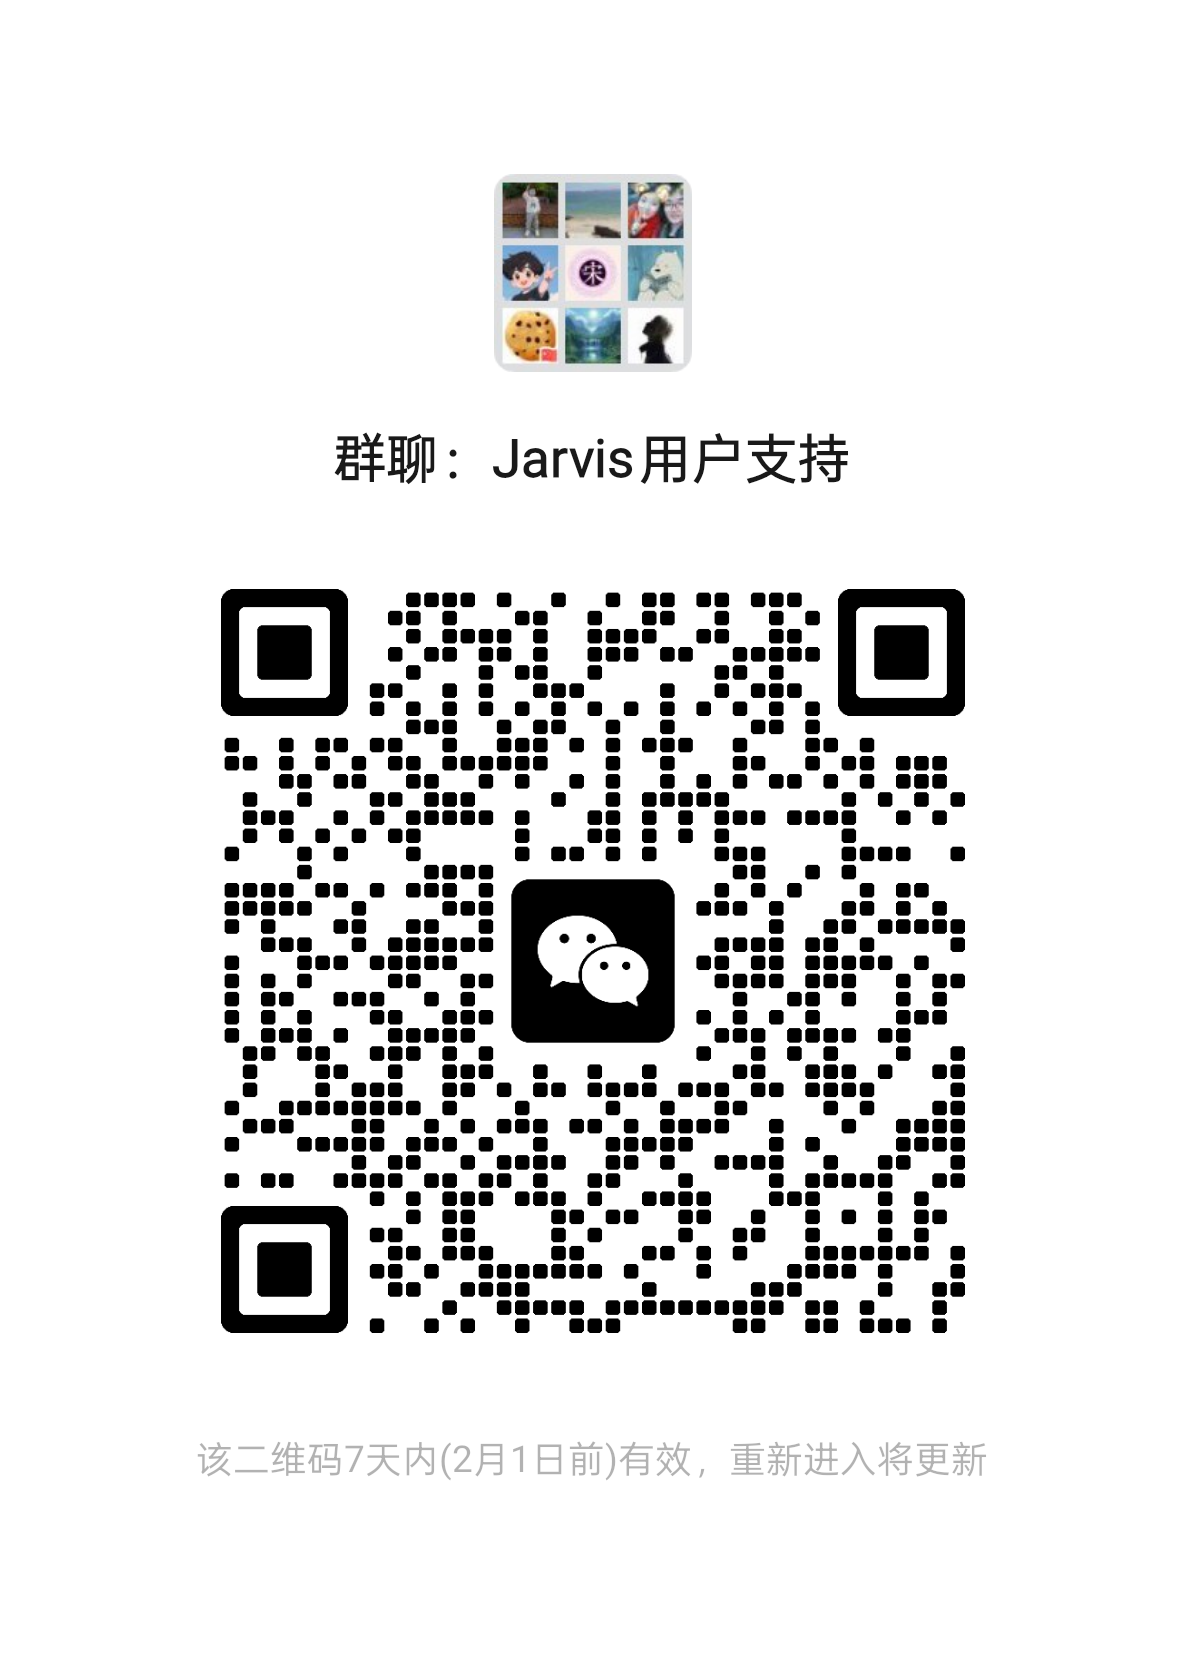
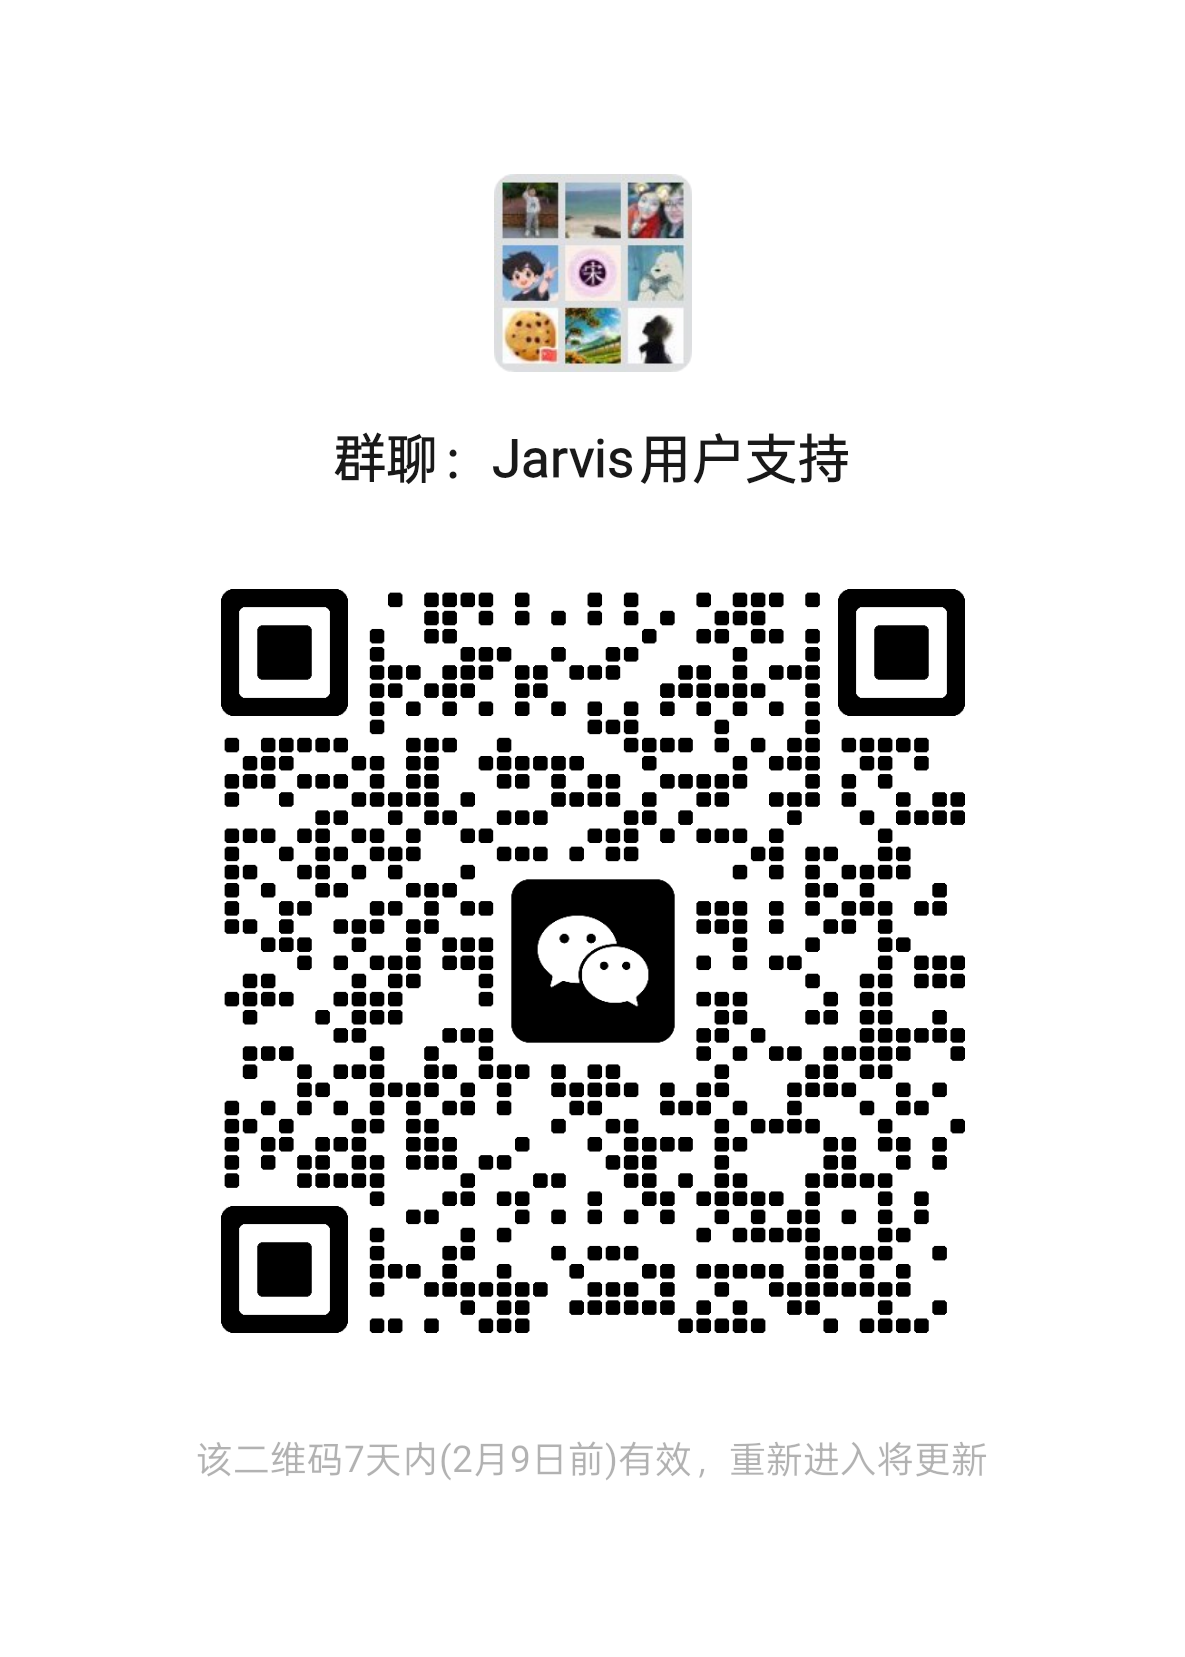
refactor(release): 更新发布说明并清理废弃模块
详细描述变更内容和原因

本次更新是一次代码清理与架构优化版本，主要变更包括：
1. 重构TaskAnalyzer从事件驱动改为直接函数调用模式，简化代码结构
2. 移除15个废弃的智能增强功能模块，总计删除约23,495行代码
3. 清理相关测试文件和配置，优化项目结构
4. 更新进化路线规划，从数字孪生智能转向架构自主优化
5. 新增详细的代码Agent系统设计文档
6. 更新安装脚本和文档内容
7. 移除stats模块的残留代码和废弃函数

Changed region(s): [[0.1873, 0.3386, 0.8118, 0.831], [0.4684, 0.1847, 0.5308, 0.2462], [0.5932, 0.3386, 0.6245, 0.3693]]

diff --git a/ReleaseNote.md b/ReleaseNote.md
@@ -1,3 +1,101 @@
+### Release Note - v2.0.2 (2026-02-02)
+
+#### **📌 修复**
+
+- **🔧 TaskAnalyzer重构**
+  - **问题**：TaskAnalyzer采用事件驱动模式，逻辑复杂且难以维护
+  - **修复**：将TaskAnalyzer从事件驱动改为直接函数调用模式，简化代码结构
+  - **影响**：
+    - `src/jarvis/jarvis_agent/task_analyzer.py`：简化为59行（原300+行）
+    - `src/jarvis/jarvis_agent/__init__.py`：添加 `analysis()` 方法实现直接任务分析
+    - 移除事件监听器和事件总线相关代码
+
+- **🔧 代码分析功能时序调整**
+  - **问题**：代码分析功能执行时机不当，可能导致分析结果不准确
+  - **修复**：调整 `jarvis_code_agent/code_agent.py` 中分析功能的执行时机
+  - **文件**：`src/jarvis/jarvis_code_agent/code_agent.py`
+
+- **🔧 调试代码清理**
+  - **清理**：删除 `read_webpage.py` 中Playwright可用性提示的调试打印语句
+  - **文件**：`src/jarvis/jarvis_tools/read_webpage.py`
+
+#### **🗑 功能移除与代码清理**
+
+##### 🎯 多智能体模块移除（Code Cleanup）
+
+- **移除模块**：`jarvis_multi_agent`（544行）
+  - `src/jarvis/jarvis_multi_agent/__init__.py`：453行
+  - `src/jarvis/jarvis_multi_agent/main.py`：91行
+  - **原因**：功能未完成，与当前架构不匹配
+
+##### 🎯 测试文件清理（Test Cleanup）
+
+删除已移除功能的测试文件，保持测试库清洁：
+
+| 测试文件                         | 行数    | 移除原因                 |
+| -------------------------------- | ------- | ------------------------ |
+| `test_methodology_extraction.py` | 283     | 方法论自动提取功能已移除 |
+| `test_generate_rule.py`          | 274     | 规则生成器功能已移除     |
+| `test_knowledge_graph_tool.py`   | 367     | 知识图谱功能已移除       |
+| **总计**                         | **924** |                          |
+
+##### 🎯 配置清理（Config Cleanup）
+
+- **文件**：`src/jarvis/jarvis_data/config_schema.json`
+- **清理内容**：删除5个废弃的配置字段
+  - `enable_startup_config_selector`（已改为命令行参数）
+  - 其他4个废弃的智能增强相关字段
+
+#### **🔧 优化与重构**
+
+- **🎯 进化阶段更新**
+  - **文件**：`.jarvis/evolution/current_phase.md`
+  - **变更**：从「阶段5 - 数字孪生智能」更新为「阶段1 - 架构自主优化」
+  - **说明**：重新规划进化路线，聚焦架构优化能力
+
+- **🎯 新增详细设计文档**
+  - **文件**：`builtin/prompts/code_agent_system/detailed_design.md`
+  - **内容**：458行详细的代码Agent系统设计文档
+  - **用途**：指导代码Agent的开发和维护
+
+- **🎯 场景配置更新**
+  - **文件**：`builtin/prompts/code_agent_system/scenarios.yaml`
+  - **变更**：新增4个场景配置
+
+#### **📚 文档更新**
+
+- **更新文档**：
+  - `README.md`：清理1行废弃内容
+  - `docs/jarvis_book/1.项目介绍.md`：删除1行
+  - `docs/jarvis_book/2.快速开始.md`：简化35行
+  - `docs/jarvis_book/4.使用指南.md`：精简99行
+  - `docs/jarvis_book/6.高级主题.md`：精简84行
+  - `docs/jarvis_book/9.附录.md`：删除1行
+  - `docs/compare/jarvis_vs_codex_cli.md`：修正16行
+
+- **脚本更新**：
+  - `scripts/install.sh`：优化安装脚本
+  - `scripts/install.ps1`：优化PowerShell安装脚本
+
+- **项目配置更新**：
+  - `pyproject.toml`：删除2行废弃配置
+  - `setup.py`：删除2行废弃配置
+
+#### **🔧 其他改进**
+
+- **微信二维码更新**
+  - **文件**：`docs/images/wechat.png`
+  - **变更**：更新联系二维码图片（206KB）
+
+- **记忆系统更新**
+  - 新增9条记忆记录，记录架构演进和代码清理过程
+
+---
+
+**版本说明**：本次更新是一次**代码清理与架构优化**版本，重点修复了TaskAnalyzer的复杂性问题，删除了924行废弃测试代码和544行未完成功能代码，优化了项目结构，更新了进化路线规划。
+
+---
+
 ### Release Note - v2.0.1 (2026-02-01)
 
 #### **🗑 功能移除与代码清理**
@@ -6,27 +104,28 @@
 
 基于「LLM本身已具备相关能力」的判断，移除低价值智能增强功能模块，简化架构，提升可维护性：
 
-| 模块 | 代码行数 | 移除原因 |
-|------|---------|---------|
-| `jarvis_ab_test` | 306 | A/B测试功能使用率低 |
-| `jarvis_arch_analyzer` | 1,759 | 架构分析功能重复，LLM可替代 |
-| `jarvis_auto_fix` | 3,652 | 自动修复功能复杂度高，收益低 |
-| `jarvis_autonomous` | 2,780 | 智能增强核心模块，功能分散 |
-| `jarvis_digital_twin` | 6,648 | 数字孪生系统过于超前 |
-| `jarvis_smart_advisor` | 1,636 | 智能顾问功能与LLM重复 |
-| `jarvis_config_optimizer` | 754 | 配置优化器实际使用少 |
-| `jarvis_api_version` | 366 | API版本管理未实际使用 |
-| `jarvis_canary` | 279 | 金丝雀发布功能未落地 |
-| `jarvis_code_analysis` | 1,353 | 代码分析检查表功能重复 |
-| `jarvis_dependency_manager` | 1,054 | 依赖管理功能与现有工具重复 |
-| `jarvis_knowledge_graph` | 716 | 知识图谱功能未完成 |
-| `jarvis_plugin` | 188 | 插件系统功能未实现 |
-| `jarvis_methodology_generator` | 428 | 方法论自动提取功能不稳定 |
-| `jarvis_rule_generator` | 712 | 规则生成器功能未验证 |
+| 模块                           | 代码行数 | 移除原因                     |
+| ------------------------------ | -------- | ---------------------------- |
+| `jarvis_ab_test`               | 306      | A/B测试功能使用率低          |
+| `jarvis_arch_analyzer`         | 1,759    | 架构分析功能重复，LLM可替代  |
+| `jarvis_auto_fix`              | 3,652    | 自动修复功能复杂度高，收益低 |
+| `jarvis_autonomous`            | 2,780    | 智能增强核心模块，功能分散   |
+| `jarvis_digital_twin`          | 6,648    | 数字孪生系统过于超前         |
+| `jarvis_smart_advisor`         | 1,636    | 智能顾问功能与LLM重复        |
+| `jarvis_config_optimizer`      | 754      | 配置优化器实际使用少         |
+| `jarvis_api_version`           | 366      | API版本管理未实际使用        |
+| `jarvis_canary`                | 279      | 金丝雀发布功能未落地         |
+| `jarvis_code_analysis`         | 1,353    | 代码分析检查表功能重复       |
+| `jarvis_dependency_manager`    | 1,054    | 依赖管理功能与现有工具重复   |
+| `jarvis_knowledge_graph`       | 716      | 知识图谱功能未完成           |
+| `jarvis_plugin`                | 188      | 插件系统功能未实现           |
+| `jarvis_methodology_generator` | 428      | 方法论自动提取功能不稳定     |
+| `jarvis_rule_generator`        | 712      | 规则生成器功能未验证         |
 
 **总计**：删除 15 个模块，约 **23,495 行代码**（14,042 源码 + 8,902 测试 + 551 工具）
 
 **影响范围**：
+
 - 移除 `jarvis-code-review` 和 `jcr` CLI 入口点
 - 从 `pyproject.toml` 中删除废弃的命令注册
 - 清理 `src/jarvis/jarvis_agent/task_analyzer.py` 中的方法论自动提取逻辑
@@ -39,18 +138,19 @@
 
 彻底清理 v2.0.1 中已移除的 `jarvis_stats` 模块的残留代码和废弃函数：
 
-| 文件 | 清理内容 | 类型 |
-|------|---------|------|
-| `jarvis_utils/utils.py` | 删除 `count_cmd_usage()` 函数及调用 | 废弃函数 |
-| `jarvis_tools/registry.py` | 删除 `_get_tool_stats()` 和 `_update_tool_stats()` 函数及调用 | 废弃函数 |
-| `jarvis_tools/cli/main.py` | 删除 `stat` 命令 | 废弃命令 |
-| `jarvis_code_agent/code_agent_git.py` | 删除 `record_code_changes_stats()` 函数及调用，清理废弃注释 | 废弃函数 + 注释 |
-| `jarvis_code_agent/code_agent.py` | 清理废弃的统计代码调用和注释 | 废弃代码 |
-| `jarvis_tools/edit_file.py` | 清理 PATCH 操作的废弃统计注释 | 废弃注释 |
+| 文件                                  | 清理内容                                                      | 类型            |
+| ------------------------------------- | ------------------------------------------------------------- | --------------- |
+| `jarvis_utils/utils.py`               | 删除 `count_cmd_usage()` 函数及调用                           | 废弃函数        |
+| `jarvis_tools/registry.py`            | 删除 `_get_tool_stats()` 和 `_update_tool_stats()` 函数及调用 | 废弃函数        |
+| `jarvis_tools/cli/main.py`            | 删除 `stat` 命令                                              | 废弃命令        |
+| `jarvis_code_agent/code_agent_git.py` | 删除 `record_code_changes_stats()` 函数及调用，清理废弃注释   | 废弃函数 + 注释 |
+| `jarvis_code_agent/code_agent.py`     | 清理废弃的统计代码调用和注释                                  | 废弃代码        |
+| `jarvis_tools/edit_file.py`           | 清理 PATCH 操作的废弃统计注释                                 | 废弃注释        |
 
 **总计**：删除 4 个废弃函数、1 个 CLI 命令、7 处废弃注释和相关代码块
 
 **影响范围**：
+
 - 清理所有 `jarvis-stats` 相关的废弃函数定义和调用
 - 移除误导性的「已废弃，jarvis-stats 功能已移除」注释
 - 删除空的 `pass` 语句和无用的 try-except 统计代码块
